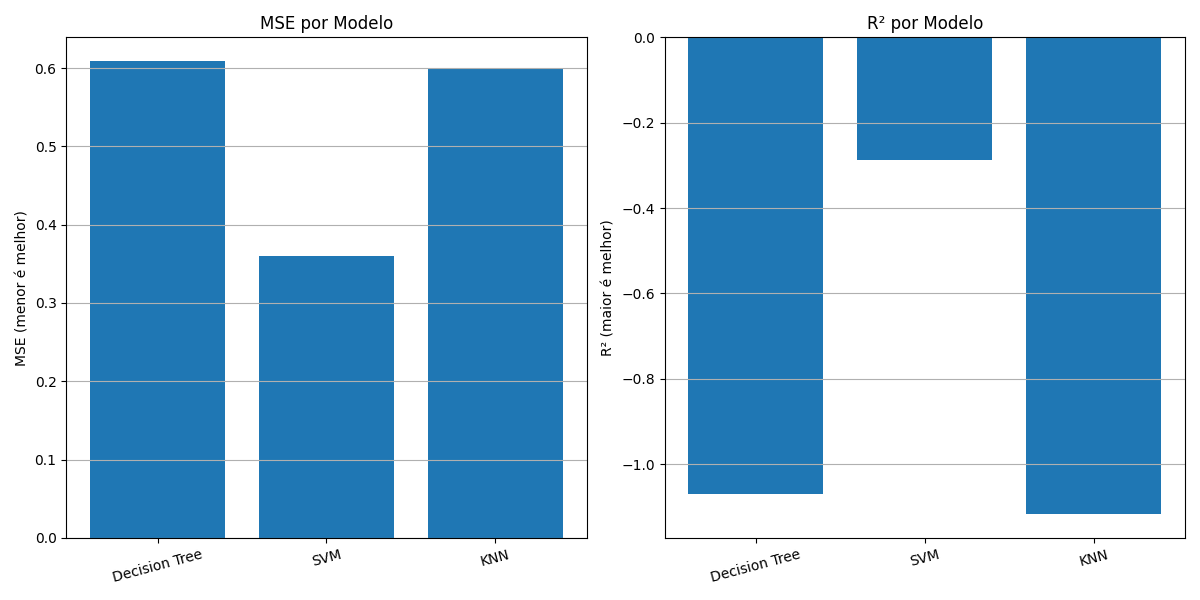
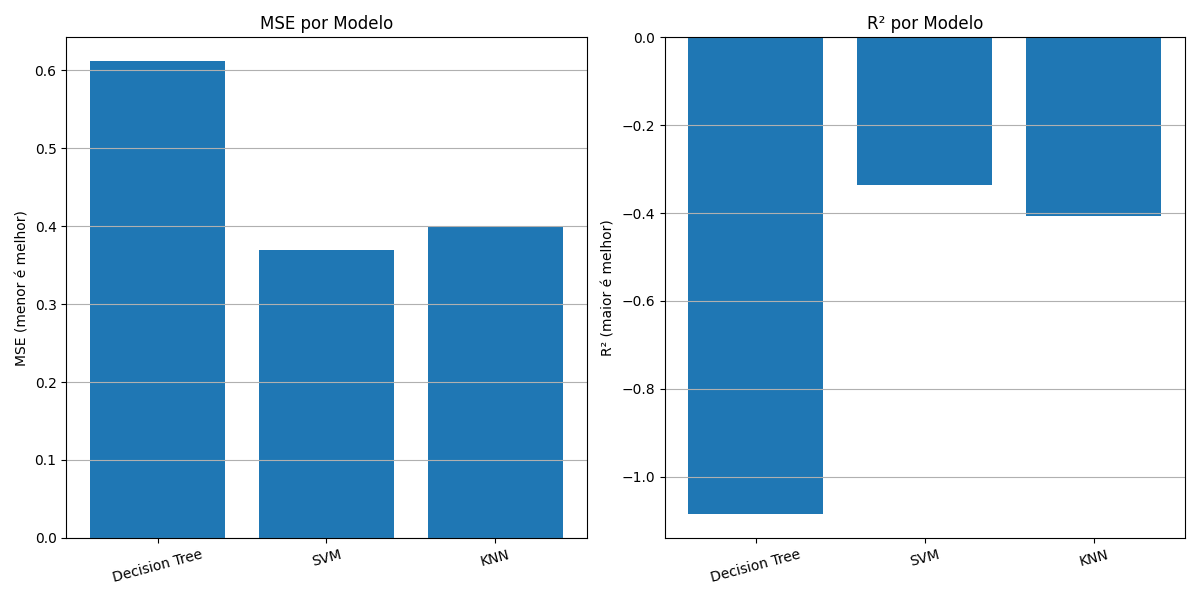
Refactor regression evaluation to use pipelines for automatic data scaling; update README with exploratory data analysis details and visualizations.

diff --git a/algorithm_evaluator.py b/algorithm_evaluator.py
@@ -10,44 +10,56 @@ from sklearn.svm import SVR
 from sklearn.neighbors import KNeighborsRegressor
 from sklearn.cluster import KMeans, DBSCAN
 from sklearn.model_selection import cross_val_score
+from sklearn.preprocessing import StandardScaler
+from sklearn.pipeline import Pipeline
 from processar_dados import carregar_dados, preparar_dados_para_regressao, preparar_dados_para_clustering
 
 def avaliar_algoritmos_regressao():
     """
     Avalia e compara os três algoritmos de regressão linear:
     Decision Tree Regressor, SVM Regressor e KNN Regressor.
+    Utiliza pipelines para padronizar os dados automaticamente.
     """
     # Carregar os dados
     dados = carregar_dados()
     X, y = preparar_dados_para_regressao(dados)
     
-    # Definir os modelos com parâmetros otimizados (baseados na análise prévia)
-    modelos = {
-        'Decision Tree': DecisionTreeRegressor(max_depth=5, min_samples_leaf=1, min_samples_split=2, random_state=42),
-        'SVM': SVR(C=0.1, gamma='scale', kernel='linear'),  # Parâmetros atualizados para execução mais rápida
-        'KNN': KNeighborsRegressor(n_neighbors=5, p=2, weights='distance')
+    # Definir os modelos com pipelines para padronização automática
+    pipelines = {
+        'Decision Tree': Pipeline([
+            ('scaler', StandardScaler()),
+            ('regressor', DecisionTreeRegressor(max_depth=5, min_samples_leaf=1, min_samples_split=2, random_state=42))
+        ]),
+        'SVM': Pipeline([
+            ('scaler', StandardScaler()),
+            ('regressor', SVR(C=0.1, gamma='scale', kernel='linear'))
+        ]),
+        'KNN': Pipeline([
+            ('scaler', StandardScaler()),
+            ('regressor', KNeighborsRegressor(n_neighbors=5, p=2, weights='distance'))
+        ])
     }
     
     # Métricas para armazenar os resultados
     resultados = pd.DataFrame(
         columns=['Modelo', 'MSE (Validação Cruzada)', 'R² (Validação Cruzada)'],
-        index=range(len(modelos))
+        index=range(len(pipelines))
     )
     
     print("Avaliando algoritmos de regressão...")
     print("-" * 50)
     
     # Avaliar cada modelo
-    for i, (nome, modelo) in enumerate(modelos.items()):
+    for i, (nome, pipeline) in enumerate(pipelines.items()):
         # Calcular MSE com validação cruzada
         cv_scores_mse = cross_val_score(
-            modelo, X, y, cv=5, scoring='neg_mean_squared_error'
+            pipeline, X, y, cv=5, scoring='neg_mean_squared_error'
         )
         mse_cv = -cv_scores_mse.mean()
         
         # Calcular R² com validação cruzada
         cv_scores_r2 = cross_val_score(
-            modelo, X, y, cv=5, scoring='r2'
+            pipeline, X, y, cv=5, scoring='r2'
         )
         r2_cv = cv_scores_r2.mean()
         

diff --git a/readme.md b/readme.md
@@ -61,6 +61,46 @@ def preparar_dados_para_clustering(dados):
     # Retorna características padronizadas e classes reais (para avaliação)
 ```
 
+### 2.1. Análise Exploratória dos Dados
+
+A análise exploratória é uma etapa fundamental do processamento de dados que permite compreender melhor a natureza e as características do dataset de vinhos antes de aplicar os algoritmos de machine learning.
+
+#### Estatísticas Descritivas
+
+Análise das estatísticas básicas de cada atributo (média, desvio padrão, mínimo, máximo, etc.) para identificar outliers e entender a distribuição dos dados. O dataset de vinhos contém 178 amostras com 13 características contínuas, distribuídas em 3 classes de cultivares.
+
+#### Visualizações Implementadas
+
+1. **Matriz de Correlação** (`matriz_correlacao.png`)
+   - Permite identificar relações lineares entre os atributos
+   - Destaca características altamente correlacionadas que podem ser redundantes
+   - Ajuda na seleção de características relevantes para os modelos
+
+2. **Distribuição dos Atributos por Classe** (`distribuicao_atributos_por_classe.png`)
+   - Visualiza a distribuição de cada atributo químico separado por classe de vinho
+   - Identifica atributos discriminantes que podem separar bem as classes
+   - Revela padrões específicos de cada cultivar
+
+3. **Visualização PCA** (`pca_visualizacao.png`)
+   - Reduz a dimensionalidade dos dados para 2 componentes principais
+   - Facilita a visualização da separabilidade das classes no espaço bidimensional
+   - Mostra a variância explicada pelos componentes principais
+
+#### Preparação dos Dados
+
+Após a análise exploratória, os dados são preparados de formas específicas para cada tipo de algoritmo:
+
+1. **Para Clustering:**
+   - Remoção da coluna de classe (clustering não supervisionado)
+   - Padronização usando StandardScaler para equalizar a escala das características
+   - Armazenamento das classes reais para posterior avaliação dos algoritmos
+
+2. **Para Regressão:**
+   - Separação do teor de álcool como variável alvo
+   - Remoção da coluna de classe
+   - Divisão em conjuntos de treino e teste
+   - Normalização das características para algoritmos sensíveis à escala (SVM, KNN)
+
 ## 3. Algoritmos de Clustering
 
 ### 3.1. K-means (`kmeans.py`)
